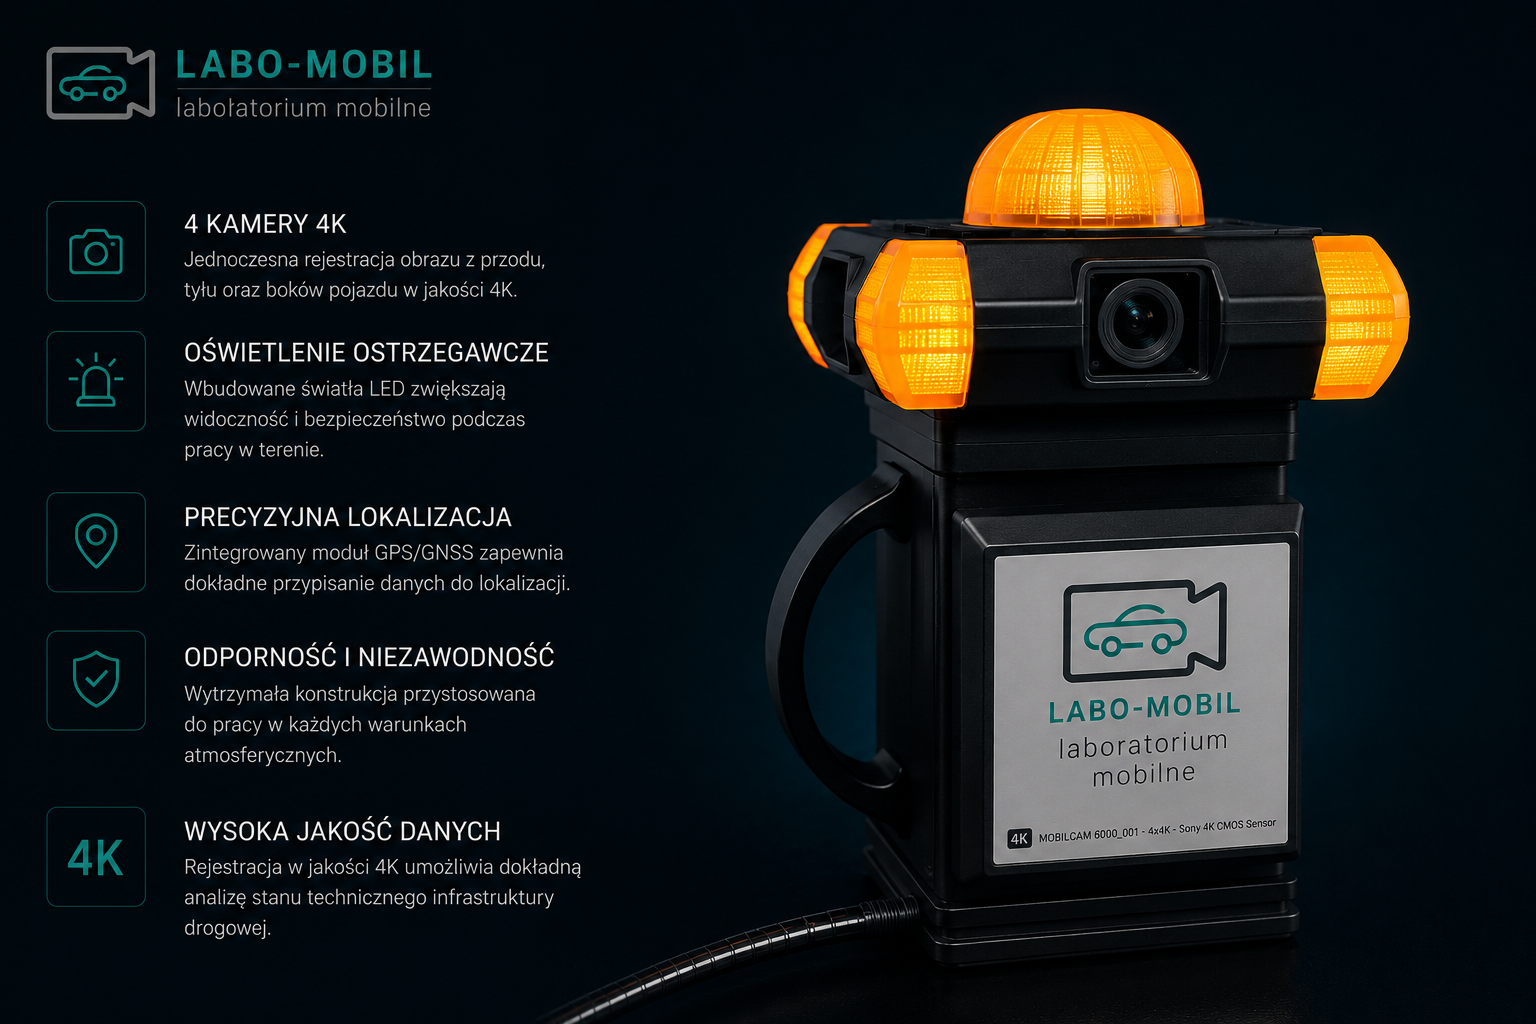
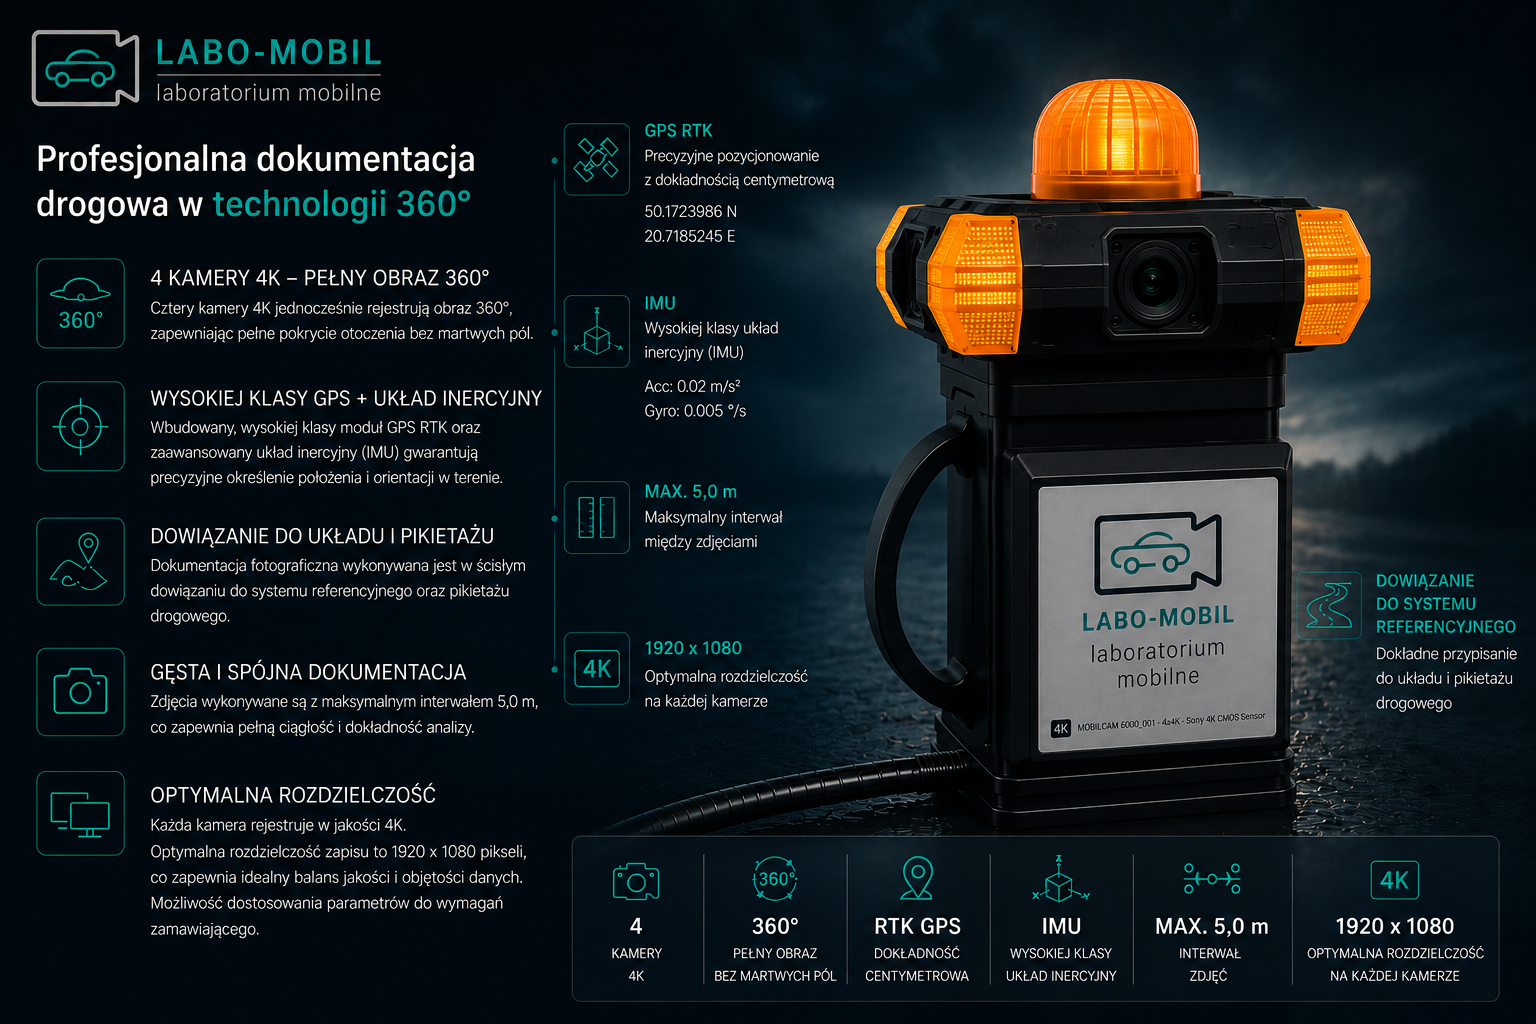
poprawa wersji mobilnej

diff --git a/app/page.js b/app/page.js
@@ -14,12 +14,13 @@ export default function Home() {
     <main className="min-h-screen bg-[#061113] text-white">
       <div className="flash-overlay" />
 
+      {/* HEADER */}
       <header className="sticky top-0 z-50 border-b border-white/10 bg-[#061113]/95 backdrop-blur-xl">
-        <div className="mx-auto flex h-[88px] max-w-7xl items-center justify-center px-4 md:h-[82px] md:justify-between md:px-6">
+        <div className="mx-auto flex h-[84px] max-w-7xl items-center justify-center px-4 md:h-[82px] md:justify-between md:px-6">
           <img
             src="/logo.png"
             alt="LABO-MOBIL"
-            className="h-[78px] w-auto object-contain md:h-[75px]"
+            className="h-[68px] w-auto object-contain md:h-[75px]"
           />
 
           <nav className="hidden gap-8 text-[15px] font-semibold uppercase tracking-[0.08em] text-slate-200 lg:flex">
@@ -42,7 +43,9 @@ export default function Home() {
           </nav>
 
           <a
-            href="tel:[phone redacted]"
+            href="https://wa.me/48791619595"
+            target="_blank"
+            rel="noopener noreferrer"
             className="hidden shrink-0 whitespace-nowrap rounded-xl border border-teal-400/60 px-5 py-3 text-sm font-bold text-teal-300 transition hover:bg-teal-400 hover:text-slate-950 md:inline-flex"
           >
             [phone redacted]
@@ -50,6 +53,7 @@ export default function Home() {
         </div>
       </header>
 
+      {/* SEKCJE */}
       <section className="mx-auto max-w-7xl px-4 py-6 md:px-6 md:py-8">
         <div className="space-y-8 md:space-y-10">
           {sections.map((section) => (
@@ -68,42 +72,65 @@ export default function Home() {
         </div>
       </section>
 
+      {/* STOPKA */}
       <footer
         id="kontakt"
-        className="mt-10 border-t border-white/10 bg-black/30 px-6 py-8 font-[Calibri]"
+        className="mt-10 border-t border-white/10 bg-black/30 px-4 py-6 font-[Calibri]"
       >
-        <div className="mx-auto grid max-w-7xl gap-8 md:grid-cols-[1fr_2fr] md:items-center">
+        <div className="mx-auto flex max-w-7xl flex-col items-center text-center">
           <img
             src="/logo.png"
             alt="LABO-MOBIL"
-            className="h-[90px] w-auto object-contain md:h-[76px]"
+            className="mb-6 h-[72px] w-auto object-contain md:h-[76px]"
           />
 
-          <div className="grid gap-5 text-slate-300 md:grid-cols-4">
-            <p className="flex gap-3">
-              <Building2 className="shrink-0 text-teal-300" />
+          <div className="grid gap-6 text-sm text-slate-300 md:grid-cols-5 md:text-base">
+            <div className="flex items-start justify-center gap-3">
+              <Building2 className="mt-1 shrink-0 text-teal-300" size={20} />
               <span>
                 ul. Grzybowa 25
                 <br />
                 33-100 Tarnów
               </span>
-            </p>
+            </div>
 
-            <p className="flex gap-3">
-              <Phone className="shrink-0 text-teal-300" />
-              <span>[phone redacted]</span>
-            </p>
+            <div className="flex items-center justify-center gap-3">
+              <Phone className="shrink-0 text-teal-300" size={20} />
 
-            <p className="flex gap-3">
-              <Mail className="shrink-0 text-teal-300" />
-              <span>[email redacted]</span>
-            </p>
+              <a
+                href="https://wa.me/48791619595"
+                target="_blank"
+                rel="noopener noreferrer"
+                className="transition hover:text-teal-300"
+              >
+                [phone redacted]
+              </a>
+            </div>
 
-            <p>
+            <div className="flex items-center justify-center gap-3">
+              <Mail className="shrink-0 text-teal-300" size={20} />
+
+              <a
+                href="mailto:[email redacted]?subject=Zapytanie%20ze%20strony%20LABO-MOBIL"
+                className="transition hover:text-teal-300"
+              >
+                [email redacted]
+              </a>
+            </div>
+
+            <div className="text-center">
               NIP: 993-055-66-53
               <br />
               REGON: 123225360
-            </p>
+            </div>
+
+            <div className="text-center">
+              <span className="font-semibold text-teal-300">
+                ING Bank Śląski S.A.
+              </span>
+              <br />
+              10 1050 1562 1000 0092 0232 9067
+            </div>
           </div>
         </div>
       </footer>